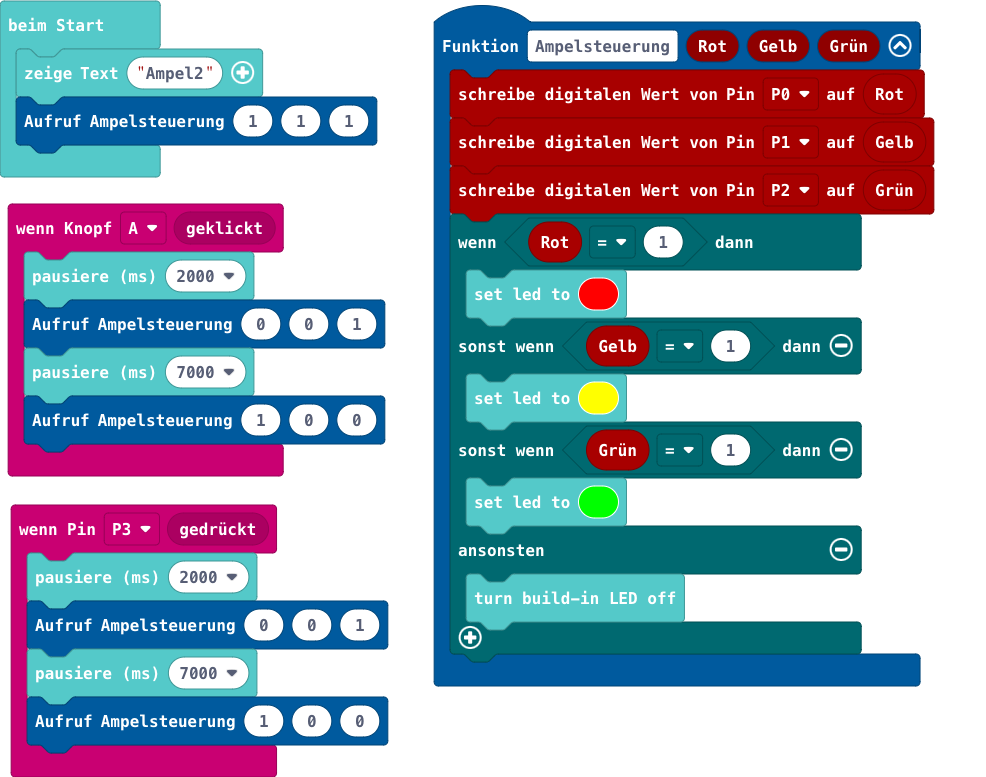
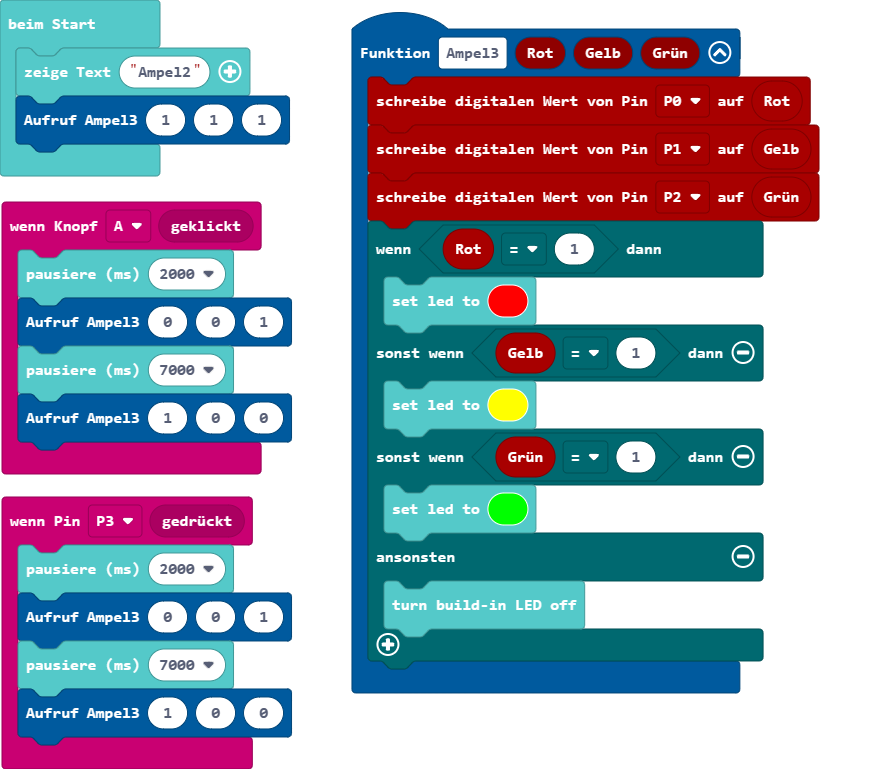
Aktualisiere main.blocks, main.ts

diff --git a/main.ts b/main.ts
@@ -1,10 +1,10 @@
 input.onButtonEvent(Button.A, input.buttonEventClick(), function () {
     basic.pause(2000)
-    Ampelsteuerung(0, 0, 1)
+    Ampel3(0, 0, 1)
     basic.pause(7000)
-    Ampelsteuerung(1, 0, 0)
+    Ampel3(1, 0, 0)
 })
-function Ampelsteuerung (Rot: number, Gelb: number, Grün: number) {
+function Ampel3 (Rot: number, Gelb: number, Grün: number) {
     pins.digitalWritePin(DigitalPin.P0, Rot)
     pins.digitalWritePin(DigitalPin.P1, Gelb)
     pins.digitalWritePin(DigitalPin.P2, Grün)
@@ -20,9 +20,9 @@ function Ampelsteuerung (Rot: number, Gelb: number, Grün: number) {
 }
 input.onPinTouchEvent(TouchPin.P3, input.buttonEventDown(), function () {
     basic.pause(2000)
-    Ampelsteuerung(0, 0, 1)
+    Ampel3(0, 0, 1)
     basic.pause(7000)
-    Ampelsteuerung(1, 0, 0)
+    Ampel3(1, 0, 0)
 })
 basic.showString("Ampel2")
-Ampelsteuerung(1, 1, 1)
+Ampel3(1, 1, 1)
